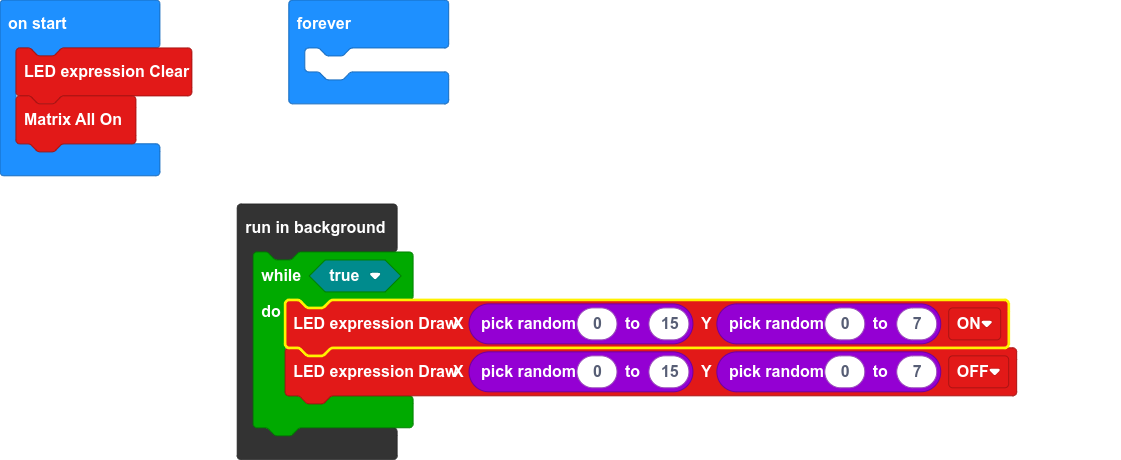
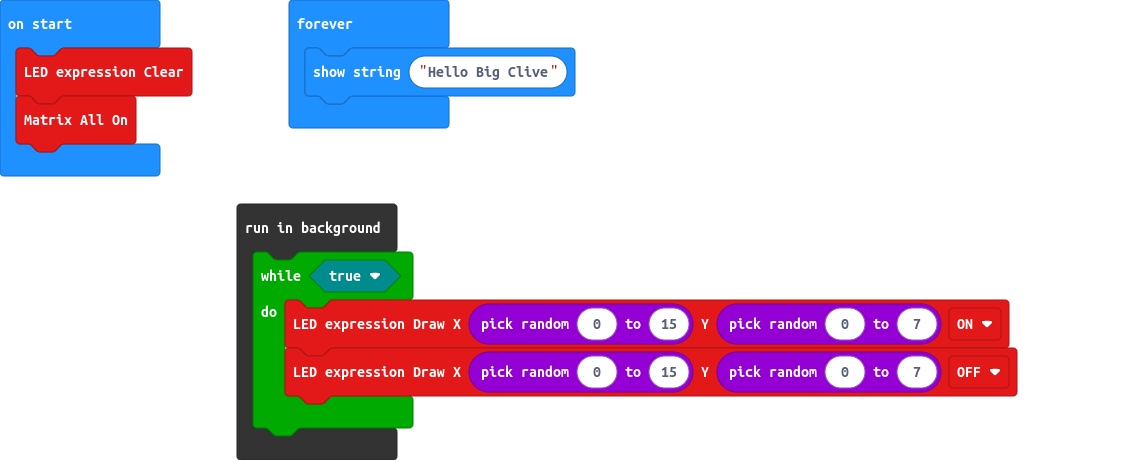
Update main.blocks, main.ts

diff --git a/main.ts b/main.ts
@@ -1,7 +1,7 @@
 LEDBit.LEDClear()
 LEDBit.LEDAllOn()
 basic.forever(function () {
-	
+    basic.showString("Hello Big Clive")
 })
 control.inBackground(function () {
     while (true) {
